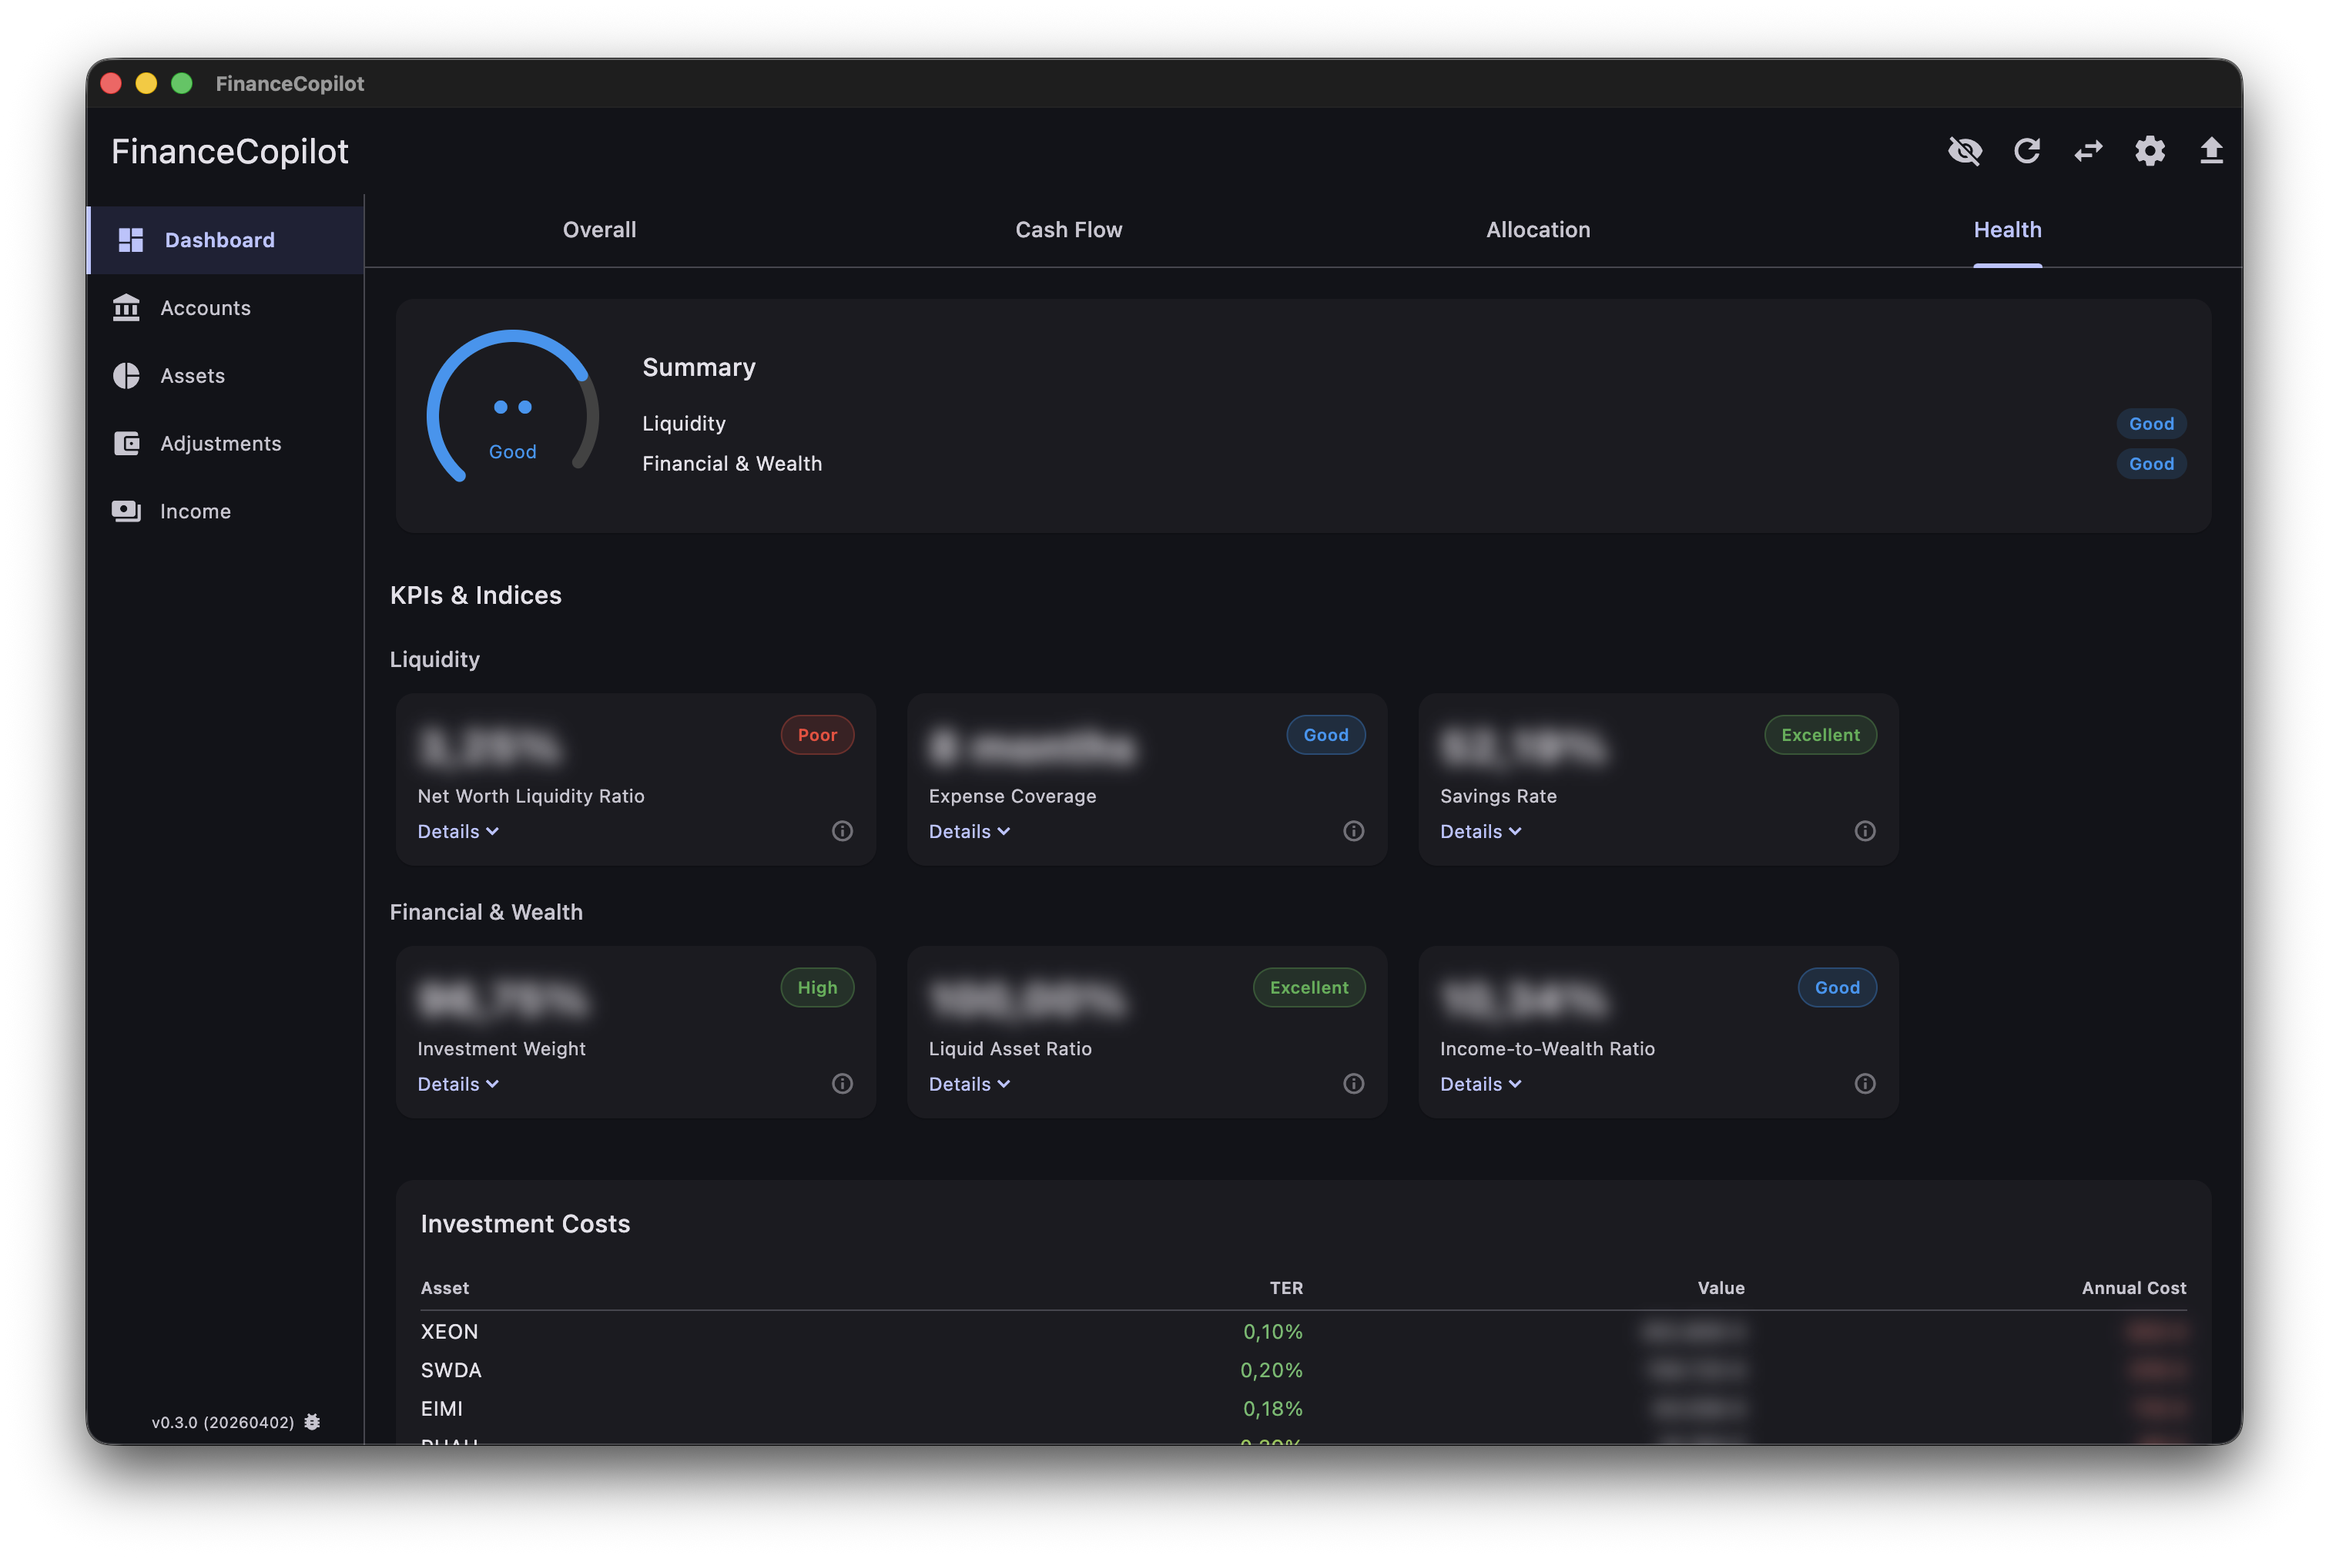
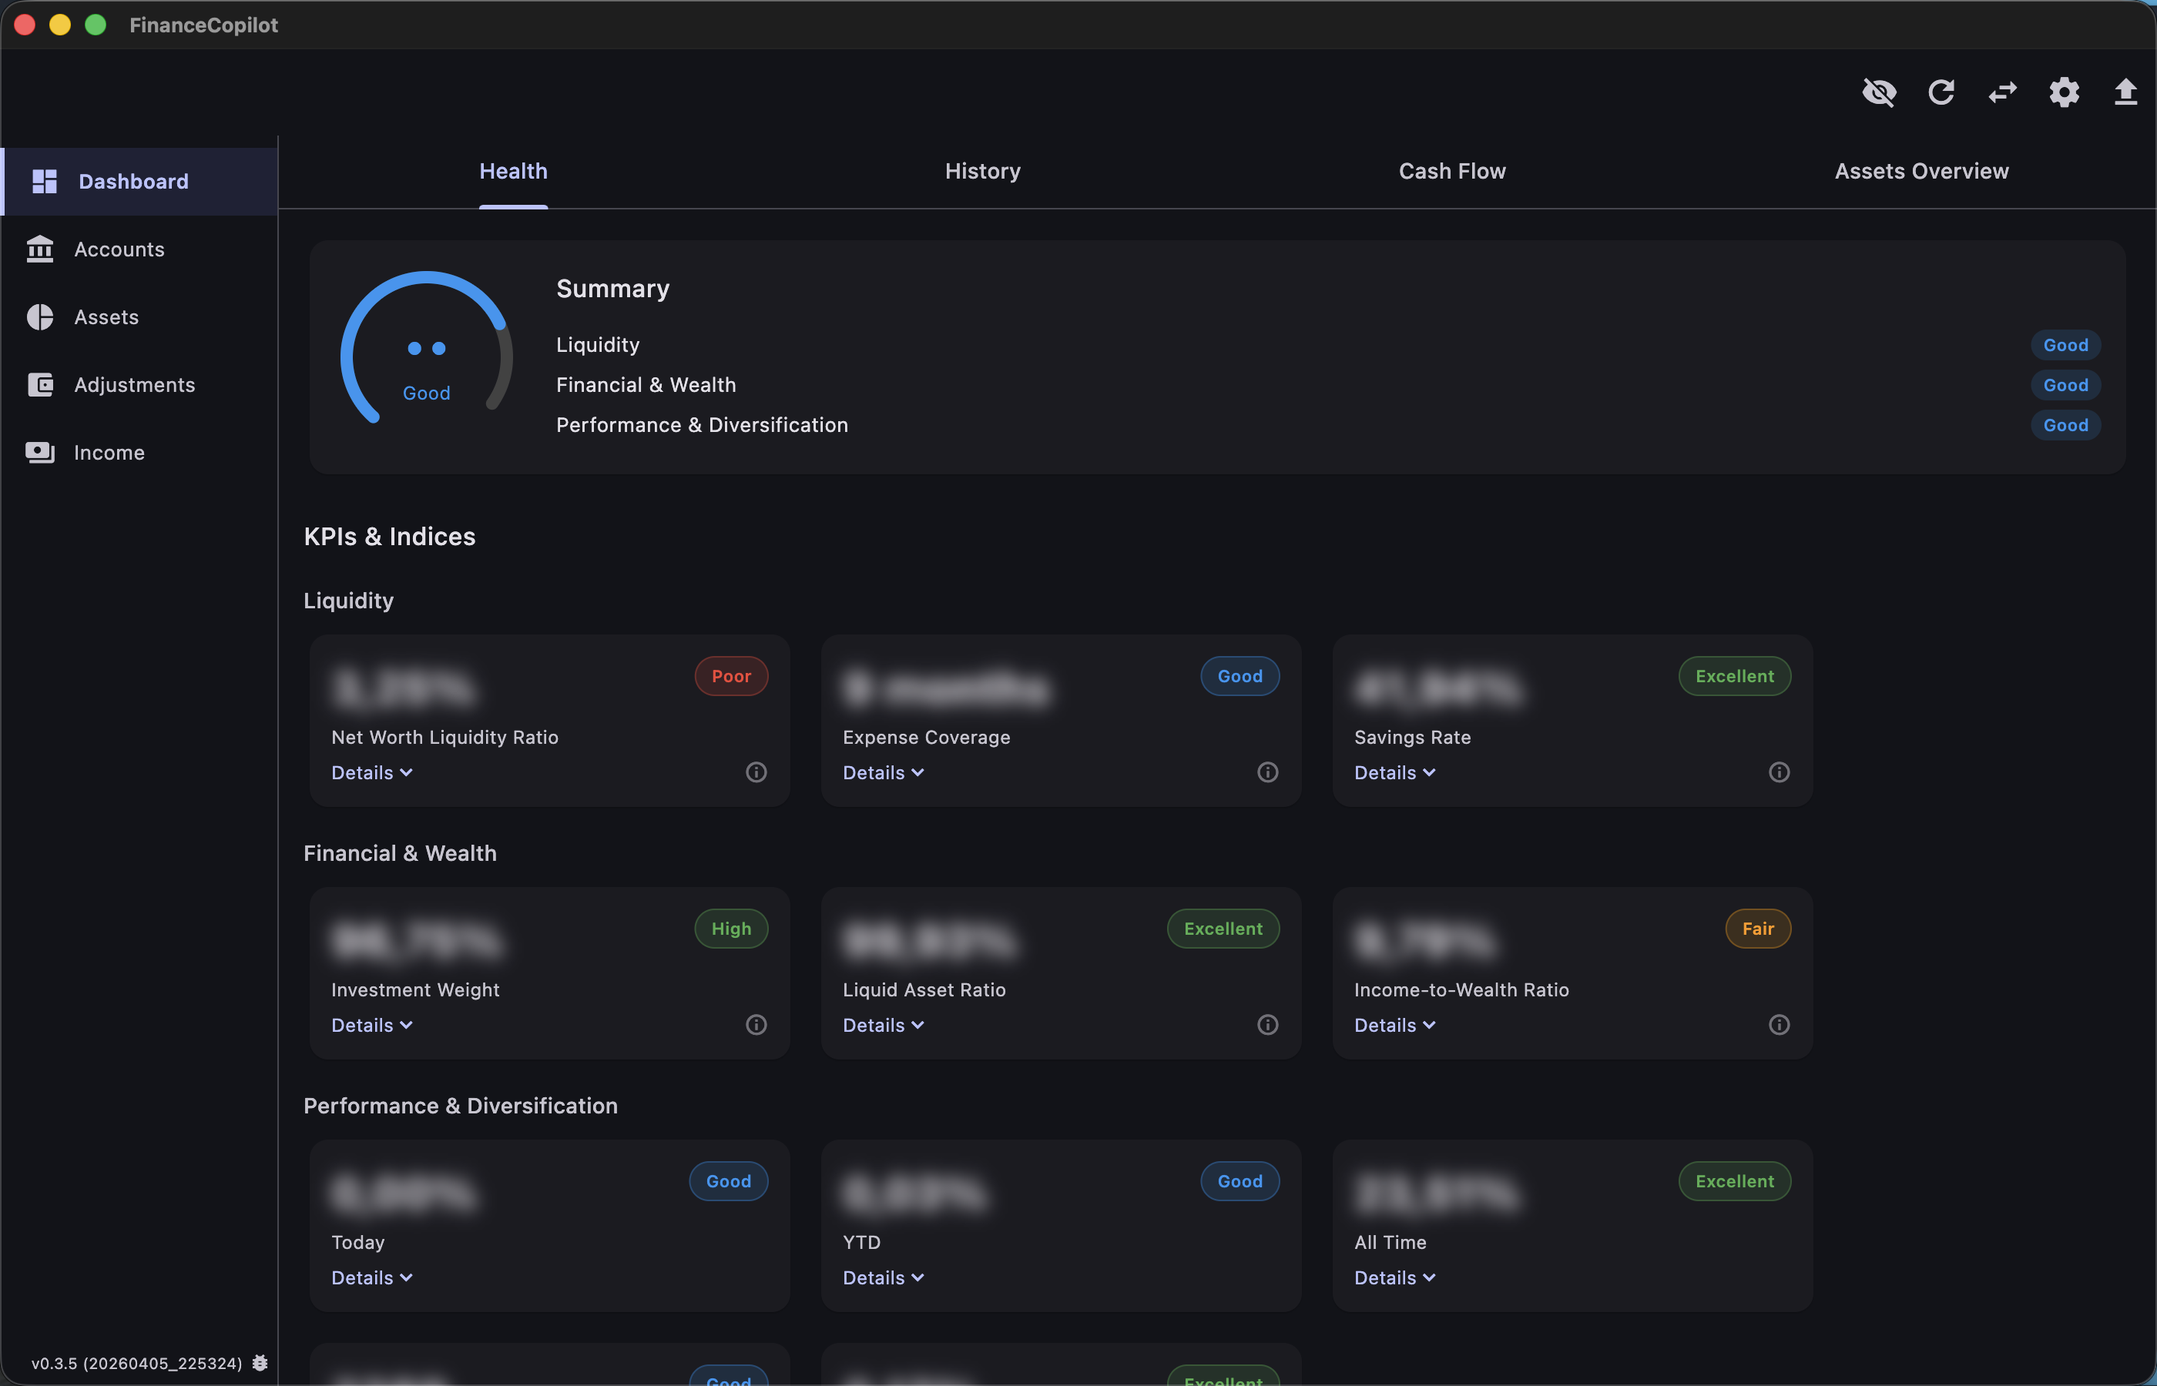
Update README: add Android, test commands, assets screenshot, current features

diff --git a/README.md b/README.md
@@ -1,82 +1,80 @@
 # FinanceCopilot
 
-A personal wealth management desktop app built with Flutter. Track your entire financial picture — bank accounts, investments, ETFs, bonds, crypto, pension funds — in one place with automatic price sync and no cloud dependency.
+A personal wealth management app built with Flutter. Track your entire financial picture — bank accounts, investments, ETFs, bonds, commodities, pension funds — in one place with automatic price sync and no cloud dependency.
 
-Runs on **macOS** and **Windows**. All data stays local in SQLite.
+Runs on **macOS**, **Windows**, and **Android**. All data stays local in SQLite.
 
 ## Screenshots
 
-### Dashboard
-Price changes with period selector (1D/1W/1M/3M/6M/1Y/All), combined Totals chart, and individual breakdowns for Total Assets, Cash, Saving, Invested, and Portfolio. Totals table with drill-down per asset/account and delta vs historical max.
-
-![Dashboard](docs/screenshots/dashboard.png)
-
-### Financial Health
-KPI scoring across Liquidity and Wealth categories with overall health gauge. Each indicator has an info button showing the formula with actual values. Investment costs table with TER tracking.
+### Financial Health Dashboard
+KPI scoring across Liquidity, Wealth, and Diversification categories with overall health gauge. Each indicator has an info button showing the formula with actual values. Performance tracking with price changes across multiple periods.
 
 ![Health](docs/screenshots/health.png)
 
-### Allocation
-Geographic, sector, asset class, instrument type, currency exposure, top holdings, and concentration risk (HHI). All aggregated from composition data fetched automatically from justETF and stockanalysis.com. Click any slice to drill down.
+### Portfolio Allocation
+Geographic, sector, asset class, instrument type, currency exposure, top holdings, and concentration risk (HHI). All aggregated from composition data fetched automatically from justETF and stockanalysis.com. Click any slice to drill down. Investment costs table with weighted TER tracking.
 
 ![Allocation](docs/screenshots/allocation.png)
 
+### Assets
+All your holdings in one view — grouped by intermediary, with live prices, event counts, and performance indicators.
+
+![Assets](docs/screenshots/assets.png)
+
 ### Asset Detail
-Per-asset composition breakdown (asset class, geography, sector, top holdings) with source attribution. Full event history: buy, sell, dividend, split, contribute, revalue.
+Per-asset view with ticker, ISIN, exchange, and full event history (buy, sell, revalue). Composition breakdown by geography, sector, and top holdings with source attribution.
 
 ![Asset Detail](docs/screenshots/asset_detail.png)
 
 ### Import
-Flexible column mapping for any bank or broker CSV/Excel export. Map columns once, save the config per account — every future import just works. Supports balance-diff mode, multi-column amounts, and status filtering.
+Flexible column mapping for any bank or broker CSV/Excel export. Map columns once, save the config per account — every future import just works. ISIN-based exchange picker with per-asset exclude checkbox. Supports balance-diff mode, multi-column amounts, and status filtering.
 
 ![Import](docs/screenshots/import.png)
 
 ## Features
 
 ### Net Worth Dashboard
-- **Totals chart** combining all accounts, assets, and adjustments into one view
-- **Price Changes table** with daily/weekly/monthly/YTD/1Y performance per asset
-- **Totals table** with drill-down showing each account and asset's contribution
+- **Financial Health tab** with KPI scoring: Liquidity (Net Worth Ratio, Expense Coverage, Savings Rate), Wealth (Investment Weight, Liquid Asset Ratio, Income-to-Wealth), Performance & Diversification (Price Changes, HHI, TER)
+- **History tab** combining all accounts, assets, and adjustments into one chart
 - **Cash Flow tab** with income vs expenses, YoY changes, and EOY prediction
-- **Financial Health tab** with KPI scoring across Liquidity and Wealth categories
+- **Assets Overview** with allocation donuts, top holdings, concentration risk, and investment costs
+- **Price Changes table** with 1D/1W/1M/3M/6M/1Y/YTD/All performance per asset
 - Toggle privacy mode to blur all amounts
 
 ### Portfolio Allocation
 - **6 donut charts**: Geographic, Sector, Asset Class, Instrument Type, Currency, Top Holdings
 - Drill-down on any slice to see which assets contribute
-- **Concentration risk**: Top 1/3/5 percentages and Herfindahl-Hirschman Index
+- **Concentration risk**: Top 1/3/5 percentages and Herfindahl-Hirschman Index (HHI)
+- **Investment costs**: Weighted average TER with per-asset cost breakdown
 - Composition data auto-fetched from justETF (ETFs) and stockanalysis.com (stocks)
-- Weekly refresh with 7-day cache
-
-### Financial Health KPIs
-- **Liquidity**: Net Worth Liquidity Ratio, Expense Coverage (months), Savings Rate
-- **Wealth**: Investment Weight, Liquid Asset Ratio, Income-to-Wealth Ratio
-- Overall score gauge (0-100) with per-category ratings (Ottimo/Buono/Sufficiente/Scarso)
-- Info button on each KPI showing the formula with actual values
 
 ### Asset Tracking
-- Stocks, ETFs, ETCs, bonds, crypto, pension funds — all in one model
-- Buy, sell, dividend, split, contribute, interest, revalue events
+- Stocks, ETFs, ETCs, bonds, pension funds — all in one model
+- Buy, sell, and revalue events with full audit trail
 - Market prices sync automatically from Investing.com (Cloudflare-aware)
+- **ISIN-first search** — resolves any ISIN to the correct exchange listing
 - Bond pricing handles per-nominal quoting (/100)
 - Auto-classification from Investing.com API (instrument type + asset class)
+- TER and composition auto-fetched from justETF
 
 ### Account Management
 - Unlimited bank accounts, brokers, wallets
 - Balances derived from imported transactions — fully auditable history
 - Group accounts and assets by **Intermediary** (broker/institution)
-- Drag-and-drop to reassign between intermediaries
 
 ### Smart Adjustments
-- **Spread** — Amortise a large purchase over time (e.g. spread a car over 36 months)
-- **Income adjustment** — Gradually absorb a lump-sum income (e.g. a bonus)
+- **Spread Expenses** — Amortise a large purchase over time (e.g. spread a car over 36 months)
+- **Donations / Inheritance** — Track and adjust for lump-sum income events
 
 ### CSV & Excel Import
 - Import from any bank or broker (CSV, XLSX, clipboard)
 - Flexible column mapping with saved configs per account
-- Supports: Fineco, N26, Revolut, Interactive Brokers, and any custom format
-- Multi-column amounts (Entrate + Uscite), balance-diff mode, status filtering
+- ISIN-based exchange picker with auto-lookup via Investing.com
+- **Exclude checkbox** per ISIN to skip unwanted assets
+- Supports: Fineco, Directa, N26, Revolut, Interactive Brokers, and any custom format
+- Multi-column amounts, balance-diff mode, formula builder, status filtering
 - Import transactions, asset events, or income records
+- Correct XLSX numeric parsing (handles 3-decimal values like 260.437)
 
 ### Multi-Currency
 - 13 currencies: EUR, USD, GBP, CHF, JPY, SEK, NOK, DKK, PLN, CZK, HUF, CAD, AUD
@@ -84,9 +82,9 @@ Flexible column mapping for any bank or broker CSV/Excel export. Map columns onc
 - Everything converts to your chosen base currency automatically
 - Per-event exchange rate tracking for accurate cost basis
 
-### Income & Expenses
+### Income Tracking
 - Track income sources with type classification
-- Flag transactions as income directly from the transaction list
+- Rolling 12-month income for Income-to-Wealth ratio
 - YoY income changes with end-of-year prediction
 - Monthly expense tracking for health KPI calculations
 
@@ -99,7 +97,7 @@ Flexible column mapping for any bank or broker CSV/Excel export. Map columns onc
 | Layer | Technology |
 |-------|-----------|
 | Framework | Flutter / Dart |
-| Platforms | macOS, Windows |
+| Platforms | macOS, Windows, Android |
 | State management | Riverpod (reactive streams) |
 | Database | Drift (SQLite) |
 | Charts | fl_chart |
@@ -116,7 +114,7 @@ brew tap marcobazzani/financecopilot
 brew install --cask financecopilot
 ```
 
-For the nightly build (latest from `main`):
+For the nightly build (latest from `develop`):
 
 ```bash
 brew install --cask financecopilot-nightly
@@ -124,7 +122,7 @@ brew install --cask financecopilot-nightly
 
 ### Download
 
-Pre-built binaries for macOS and Windows are available on the [Releases](https://github.com/marcobazzani/FinanceCopilot/releases) page. The [Nightly Build](https://github.com/marcobazzani/FinanceCopilot/releases/tag/latest) is updated automatically on every push to `main`.
+Pre-built binaries for macOS and Windows are available on the [Releases](https://github.com/marcobazzani/FinanceCopilot/releases) page. The [Nightly Build](https://github.com/marcobazzani/FinanceCopilot/releases/tag/latest) is updated automatically on every push to `develop`.
 
 ### Build from Source
 
@@ -140,12 +138,22 @@ open build/macos/Build/Products/Release/FinanceCopilot.app
 
 # Windows
 flutter build windows --release
+
+# Android
+flutter build apk --release
 ```
 
 ### Run Tests
 
 ```bash
+# Unit tests (353 tests, ~10s)
 flutter test
+
+# Integration tests (14 tests, ~50s, requires macOS)
+flutter test integration_test/all_tests.dart -d macos
+
+# Live data test (12 assets, real HTTP to Investing.com, ~50s)
+flutter test integration_test/live_data_fetch_test.dart -d macos
 ```
 
 ## Architecture
@@ -154,6 +162,7 @@ flutter test
 - **Reactive** — Riverpod stream providers watch the database and rebuild the UI automatically on any change.
 - **Self-contained** — The app bundle has no runtime dependencies. No Python, no external processes.
 - **Cloudflare-aware** — Uses a headless WebView to solve CF challenges, with automatic Dio/JS fetch routing based on a single startup probe.
+- **ISIN-first** — All asset resolution prefers ISIN over ticker for reliable multi-exchange matching.
 
 ## License
 
